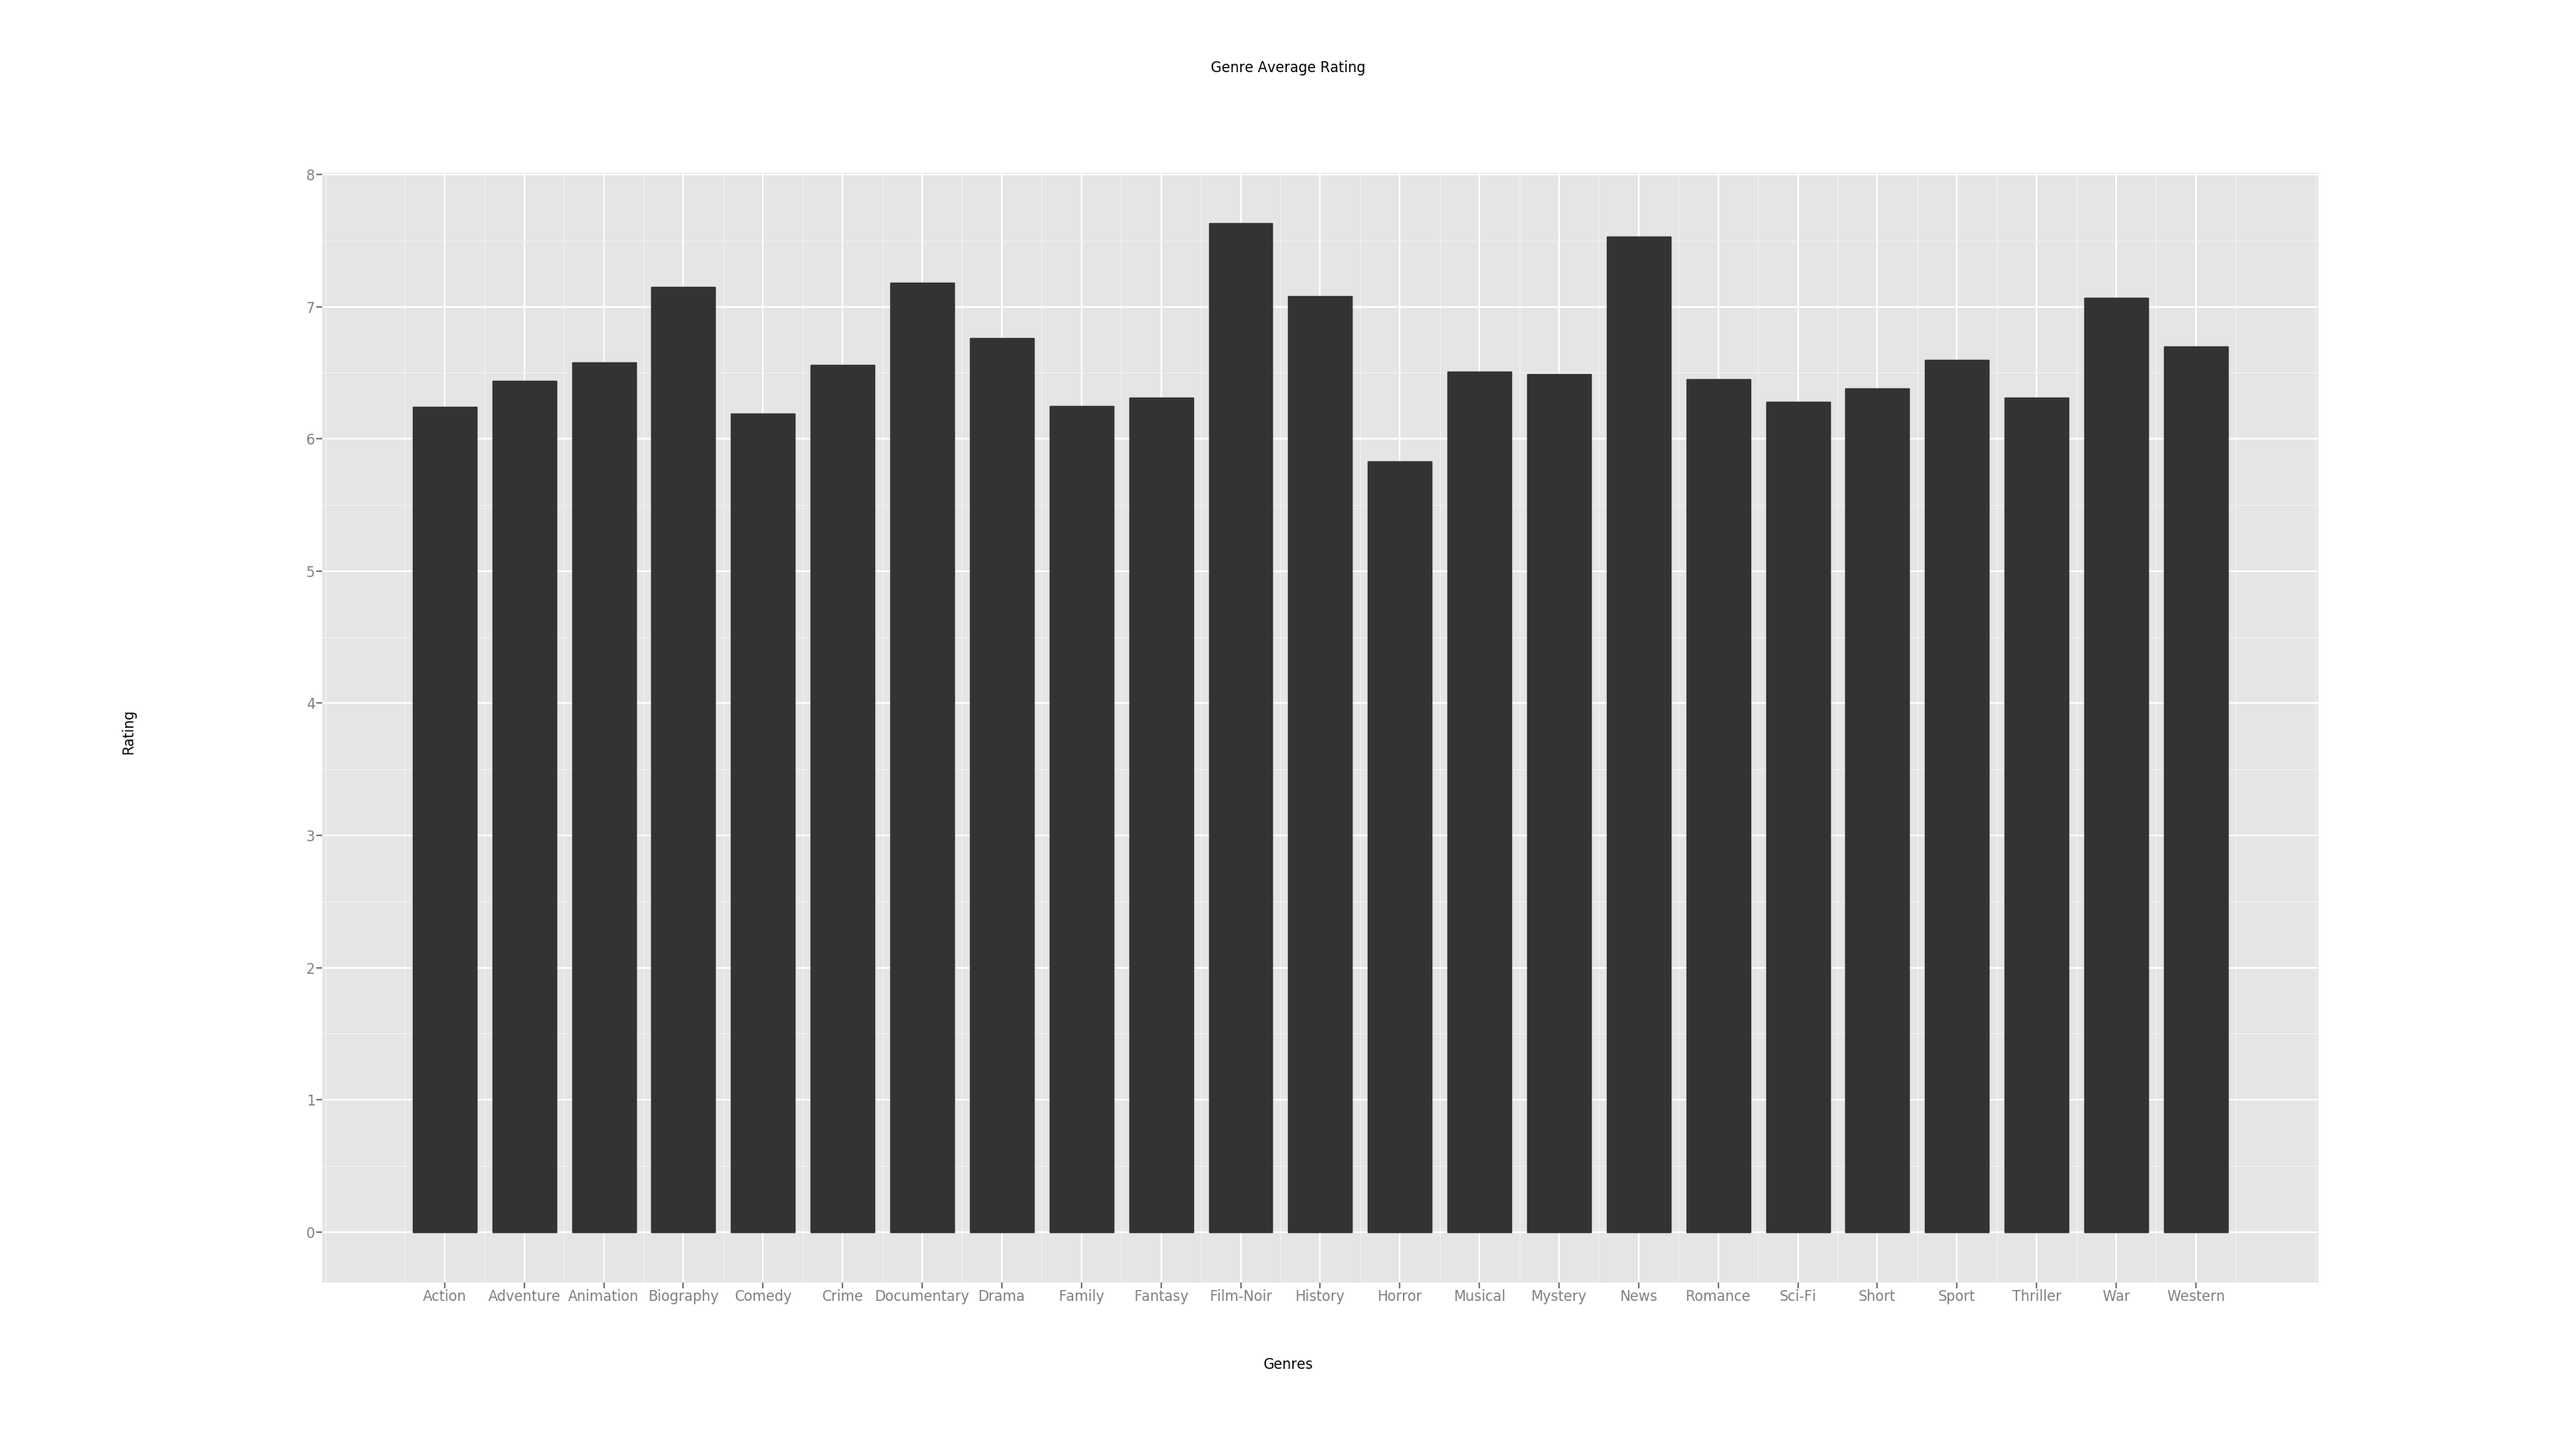
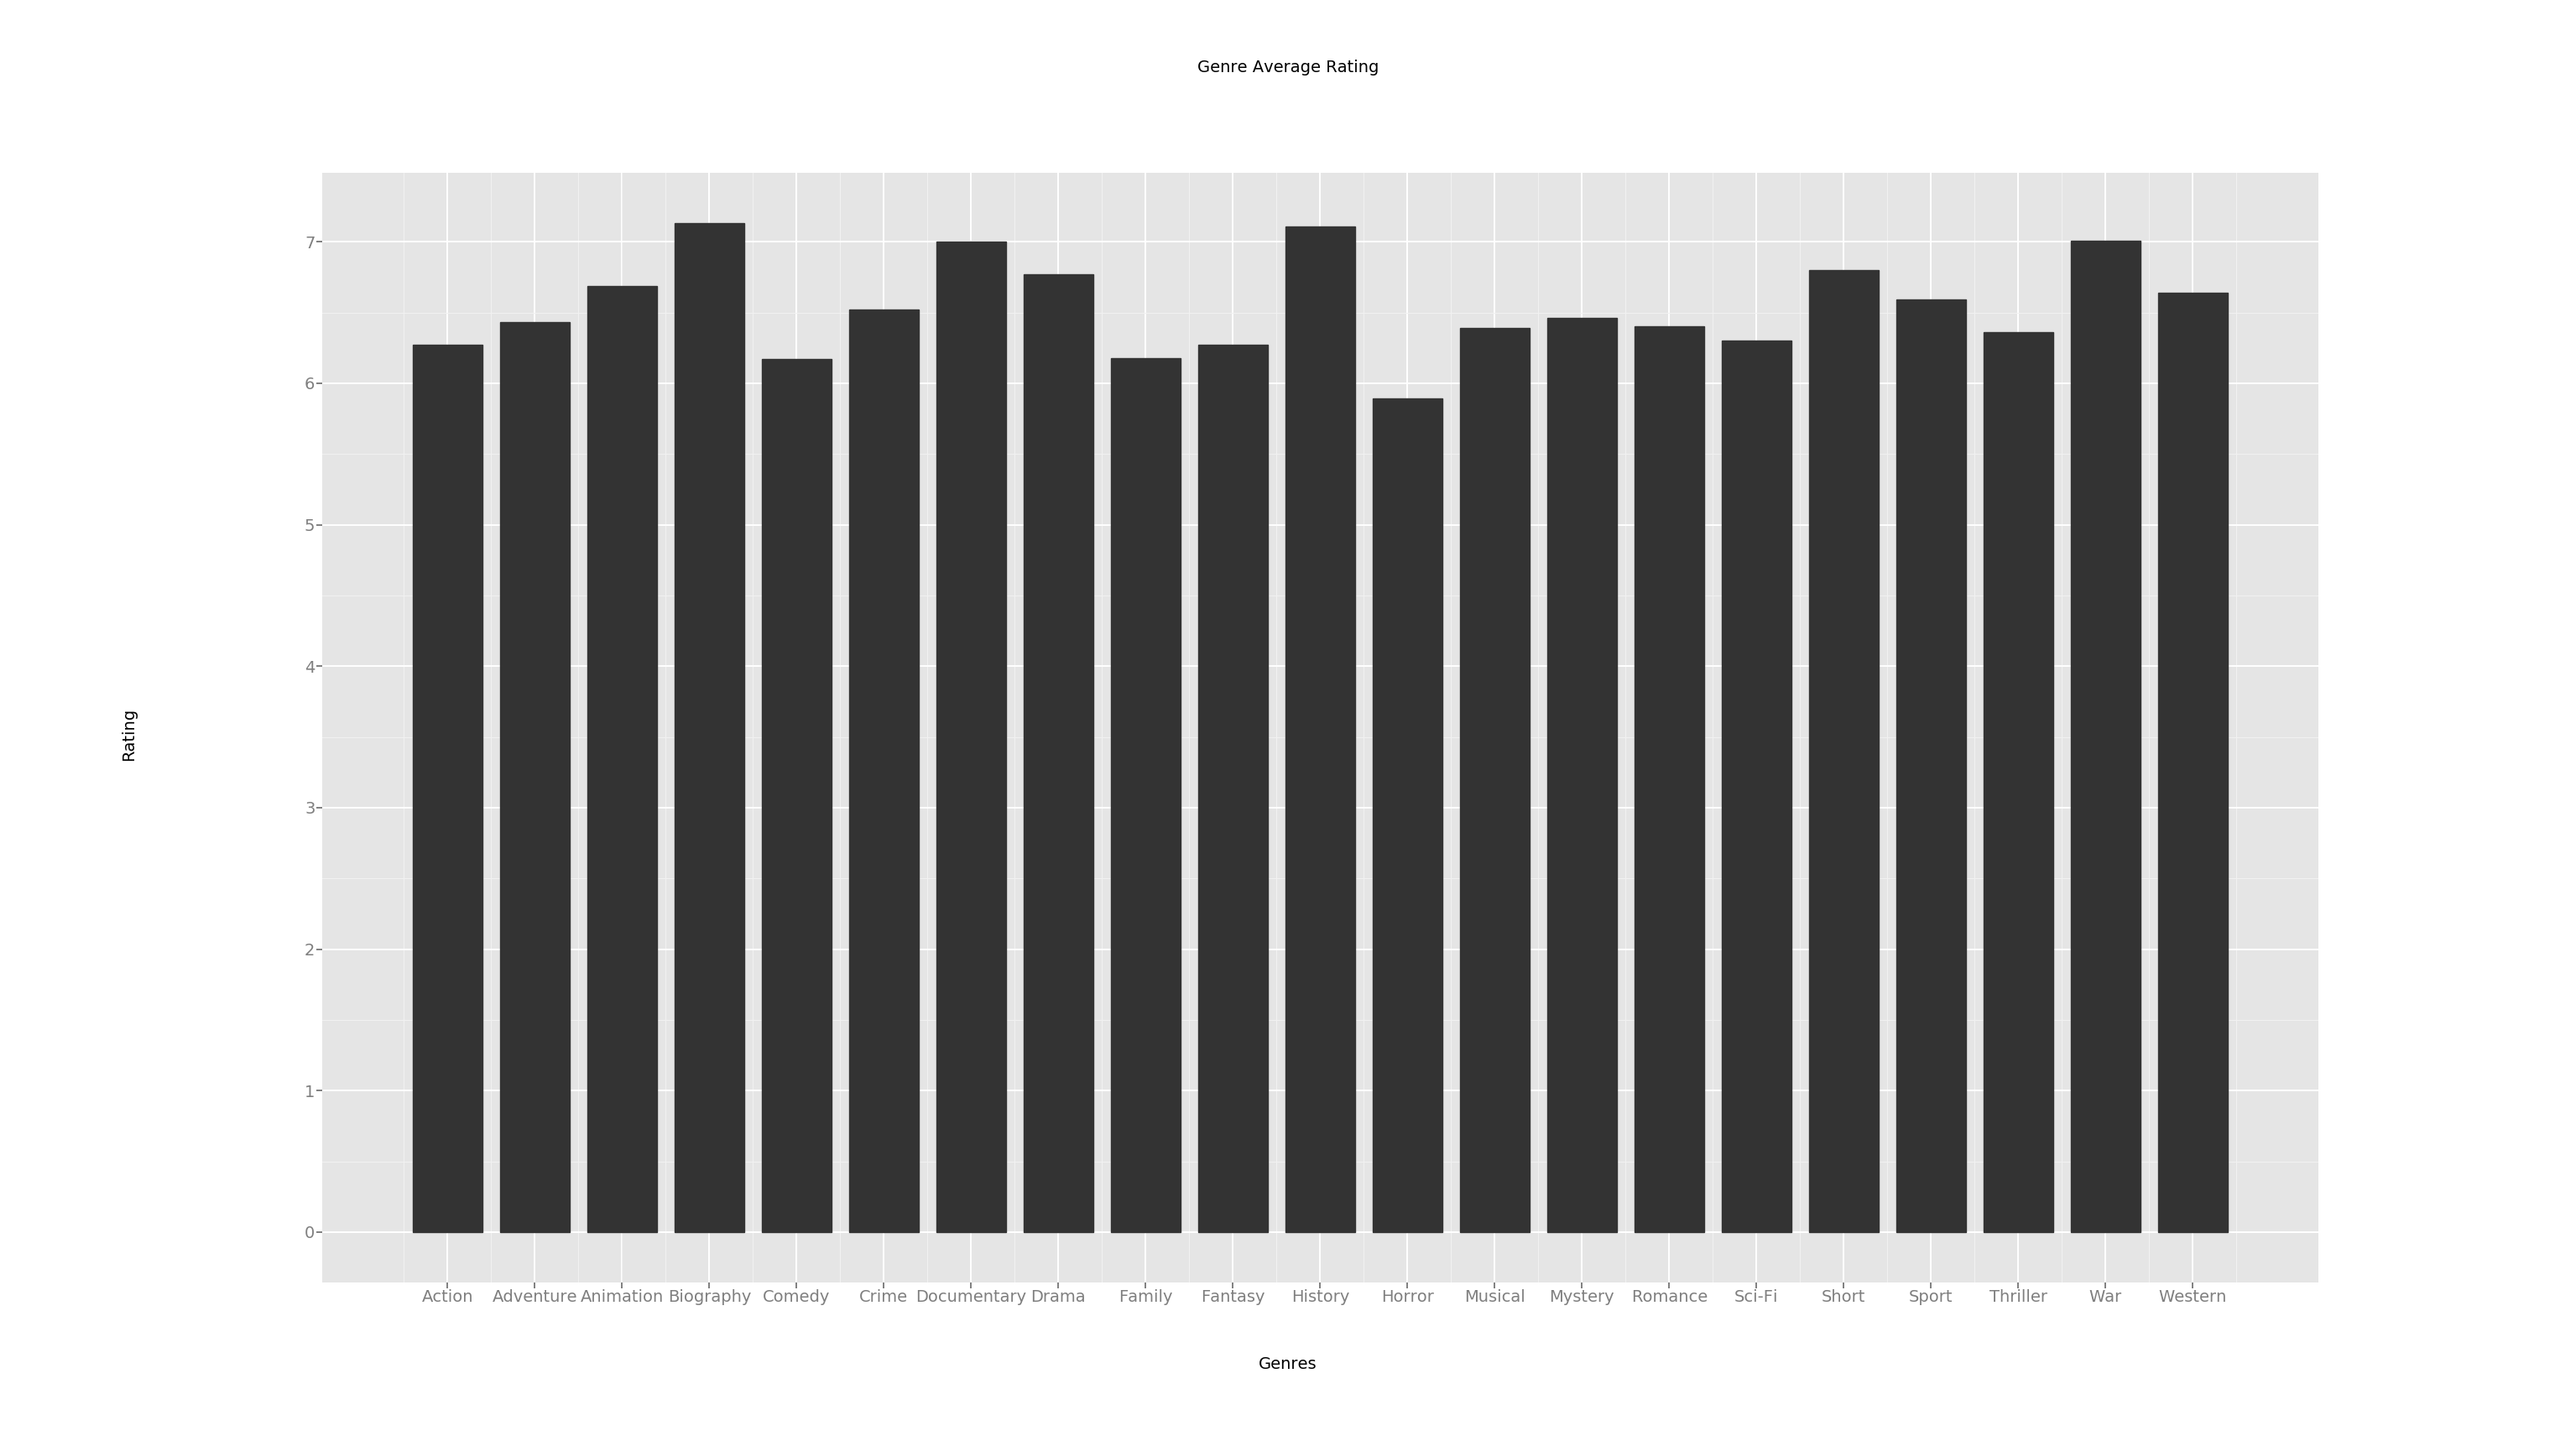
Created genres with smaller dataset

diff --git a/final.py b/final.py
@@ -59,82 +59,79 @@ print "After dropping movies before 1980 " +\
 
 #Plots
 
-
 ################Year Histogram to show how the data is spread by year 
 
 
-yearHist = ggplot(df, aes(x="title_year")) +\
-ggtitle("Movie data by year") + xlab("Year") + ylab("Amount") +\
-geom_histogram(binwidth=.05)
+# yearHist = ggplot(df, aes(x="title_year")) +\
+# ggtitle("Movie data by year") + xlab("Year") + ylab("Amount") +\
+# geom_histogram(binwidth=.05)
 
-t = theme_gray()
-t._rcParams['font.size'] = 30
+# t = theme_gray()
+# t._rcParams['font.size'] = 30
 
-print yearHist + t
+# print yearHist + t
 
 
 
 #############Separate each genres into a dataframe 
 
-# actionDf = df[df['genres'].str.contains("Action")]
-# adventureDf = df[df['genres'].str.contains("Adventure")]
-# animationDf = df[df['genres'].str.contains("Animation")]
-# biographyDf = df[df['genres'].str.contains("Biography")]
-# comedyDf = df[df['genres'].str.contains("Comedy")]
-# crimeDf = df[df['genres'].str.contains("Crime")]
-# documentaryDf = df[df['genres'].str.contains("Documentary")]
-# dramaDf = df[df['genres'].str.contains("Drama")]
-# familyDf = df[df['genres'].str.contains("Family")]
-# fantasyDf = df[df['genres'].str.contains("Fantasy")]
-# filmNoirDf = df[df['genres'].str.contains("Film-Noir")]
-# historyDf = df[df['genres'].str.contains("History")]
-# horrorDf = df[df['genres'].str.contains("Horror")]
-# musicalDf = df[df['genres'].str.contains("Musical")]
-# mysteryDf = df[df['genres'].str.contains("Mystery")]
-# newsDf = df[df['genres'].str.contains("News")]
-# romanceDf = df[df['genres'].str.contains("Romance")]
-# sciFiDf = df[df['genres'].str.contains("Sci-Fi")]
-# shortDf = df[df['genres'].str.contains("Short")]
-# sportDf = df[df['genres'].str.contains("Sport")]
-# thrillerDf = df[df['genres'].str.contains("Thriller")]
-# warDf = df[df['genres'].str.contains("War")]
-# westernDf = df[df['genres'].str.contains("Western")]
+actionDf = df[df['genres'].str.contains("Action")]
+adventureDf = df[df['genres'].str.contains("Adventure")]
+animationDf = df[df['genres'].str.contains("Animation")]
+biographyDf = df[df['genres'].str.contains("Biography")]
+comedyDf = df[df['genres'].str.contains("Comedy")]
+crimeDf = df[df['genres'].str.contains("Crime")]
+documentaryDf = df[df['genres'].str.contains("Documentary")]
+dramaDf = df[df['genres'].str.contains("Drama")]
+familyDf = df[df['genres'].str.contains("Family")]
+fantasyDf = df[df['genres'].str.contains("Fantasy")]
+filmNoirDf = df[df['genres'].str.contains("Film-Noir")]
+historyDf = df[df['genres'].str.contains("History")]
+horrorDf = df[df['genres'].str.contains("Horror")]
+musicalDf = df[df['genres'].str.contains("Musical")]
+mysteryDf = df[df['genres'].str.contains("Mystery")]
+newsDf = df[df['genres'].str.contains("News")]
+romanceDf = df[df['genres'].str.contains("Romance")]
+sciFiDf = df[df['genres'].str.contains("Sci-Fi")]
+shortDf = df[df['genres'].str.contains("Short")]
+sportDf = df[df['genres'].str.contains("Sport")]
+thrillerDf = df[df['genres'].str.contains("Thriller")]
+warDf = df[df['genres'].str.contains("War")]
+westernDf = df[df['genres'].str.contains("Western")]
 
-# genres = [
-# ["Action", actionDf.imdb_score.mean().round(2)],
-# ["Adventure", adventureDf.imdb_score.mean().round(2)],
-# ["Animation", animationDf.imdb_score.mean().round(2)],
-# ["Biography", biographyDf.imdb_score.mean().round(2)],
-# ["Comedy", comedyDf.imdb_score.mean().round(2)],
-# ["Crime", crimeDf.imdb_score.mean().round(2)],
-# ["Documentary", documentaryDf.imdb_score.mean().round(2)],
-# ["Drama", dramaDf.imdb_score.mean().round(2)],
-# ["Family", familyDf.imdb_score.mean().round(2)],
-# ["Fantasy", fantasyDf.imdb_score.mean().round(2)], 
-# ["Film-Noir", filmNoirDf.imdb_score.mean().round(2)],
-# ["History", historyDf.imdb_score.mean().round(2)],
-# ["Horror", horrorDf.imdb_score.mean().round(2)],
-# ["Musical", musicalDf.imdb_score.mean().round(2)],
-# ["Mystery", mysteryDf.imdb_score.mean().round(2)],
-# ["News", newsDf.imdb_score.mean().round(2)],
-# ["Romance", romanceDf.imdb_score.mean().round(2)],
-# ["Sci-Fi", sciFiDf.imdb_score.mean().round(2)],
-# ["Short", shortDf.imdb_score.mean().round(2)],
-# ["Sport", sportDf.imdb_score.mean().round(2)],
-# ["Thriller", thrillerDf.imdb_score.mean().round(2)],
-# ["War", warDf.imdb_score.mean().round(2)],
-# ["Western", westernDf.imdb_score.mean().round(2)]]
+genres = [
+["Action", actionDf.imdb_score.mean().round(2)],
+["Adventure", adventureDf.imdb_score.mean().round(2)],
+["Animation", animationDf.imdb_score.mean().round(2)],
+["Biography", biographyDf.imdb_score.mean().round(2)],
+["Comedy", comedyDf.imdb_score.mean().round(2)],
+["Crime", crimeDf.imdb_score.mean().round(2)],
+["Documentary", documentaryDf.imdb_score.mean().round(2)],
+["Drama", dramaDf.imdb_score.mean().round(2)],
+["Family", familyDf.imdb_score.mean().round(2)],
+["Fantasy", fantasyDf.imdb_score.mean().round(2)], 
+["History", historyDf.imdb_score.mean().round(2)],
+["Horror", horrorDf.imdb_score.mean().round(2)],
+["Musical", musicalDf.imdb_score.mean().round(2)],
+["Mystery", mysteryDf.imdb_score.mean().round(2)],
+["Romance", romanceDf.imdb_score.mean().round(2)],
+["Sci-Fi", sciFiDf.imdb_score.mean().round(2)],
+["Short", shortDf.imdb_score.mean().round(2)],
+["Sport", sportDf.imdb_score.mean().round(2)],
+["Thriller", thrillerDf.imdb_score.mean().round(2)],
+["War", warDf.imdb_score.mean().round(2)],
+["Western", westernDf.imdb_score.mean().round(2)]]
 
-# genresDfs = pd.DataFrame.from_records(genres, columns=['genres', 'imdb_score'])
-# genresDfs = genresDfs.sort_values('imdb_score')
-# genreScore = ggplot(genresDfs, aes(x="genres", weight="imdb_score")) +\
-# ggtitle("Genre Average Rating") + xlab("Genres") + ylab("Rating") +\
-# geom_bar()
+genresDfs = pd.DataFrame.from_records(genres, columns=['genres', 'imdb_score'])
+genresDfs = genresDfs.sort_values('imdb_score')
+genreScore = ggplot(genresDfs, aes(x="genres", weight="imdb_score")) +\
+ggtitle("Genre Average Rating") + xlab("Genres") + ylab("Rating") +\
+geom_bar()
 
-# #increse font 
-# t = theme_gray()
-# t._rcParams['font.size'] = 16
-# print genreScore + t
+#increse font 
+t = theme_gray()
+t._rcParams['font.size'] = 14
+print genreScore + t
 
 
 ###############Create a scatter plot of highest grossing movies and imdb scores 
